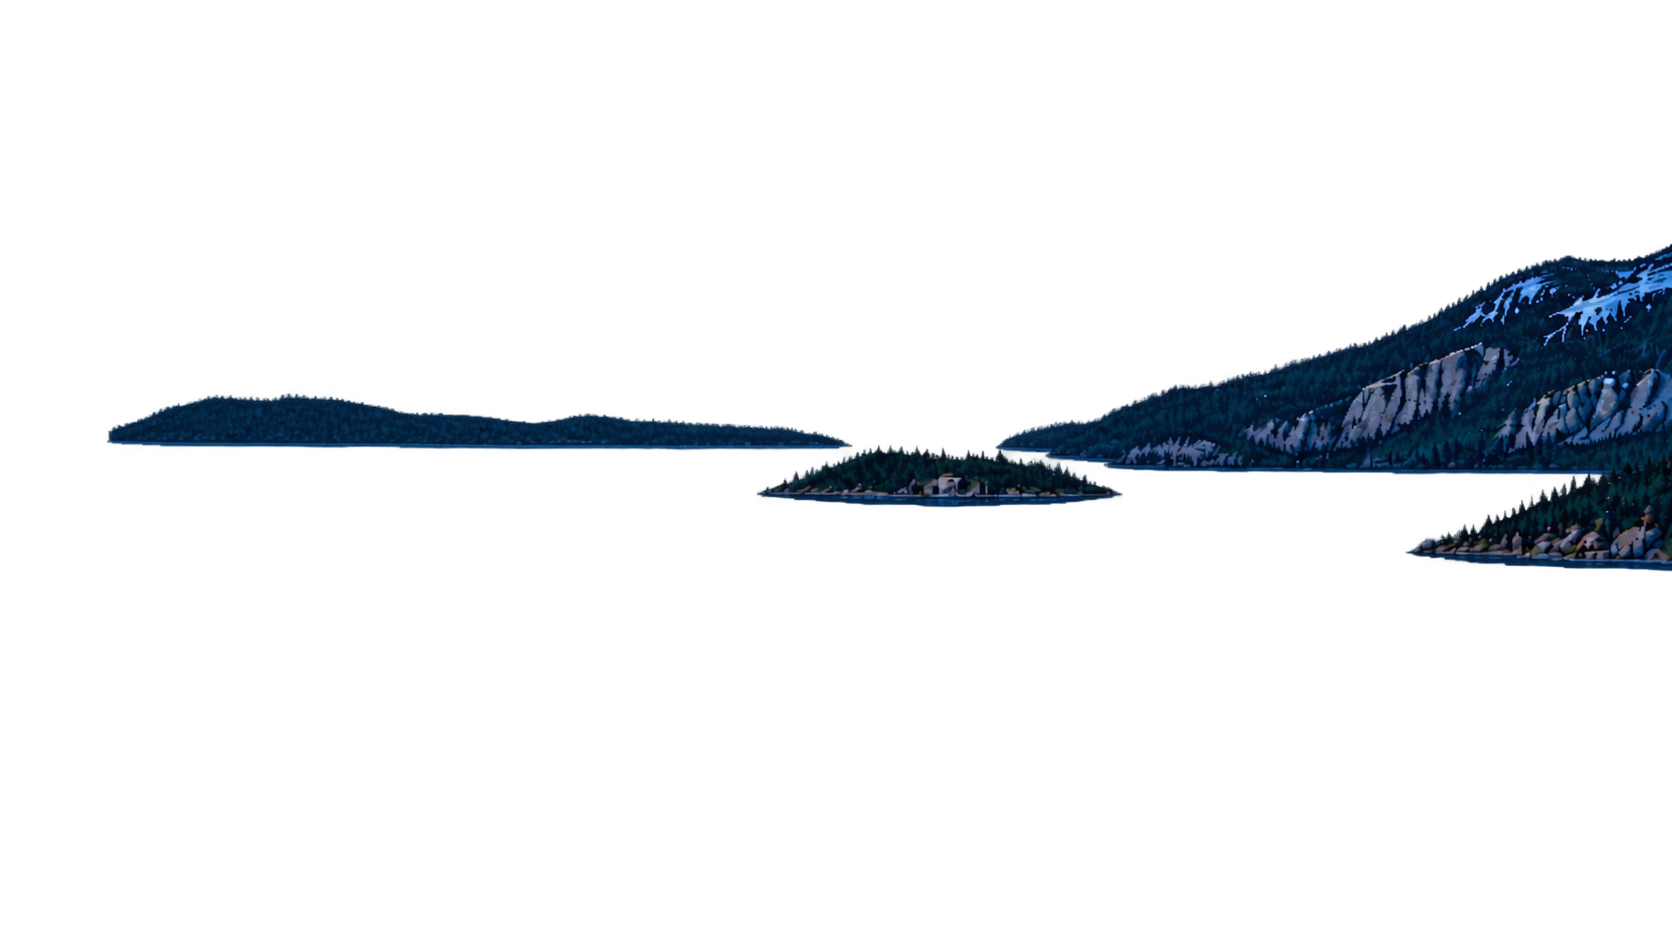
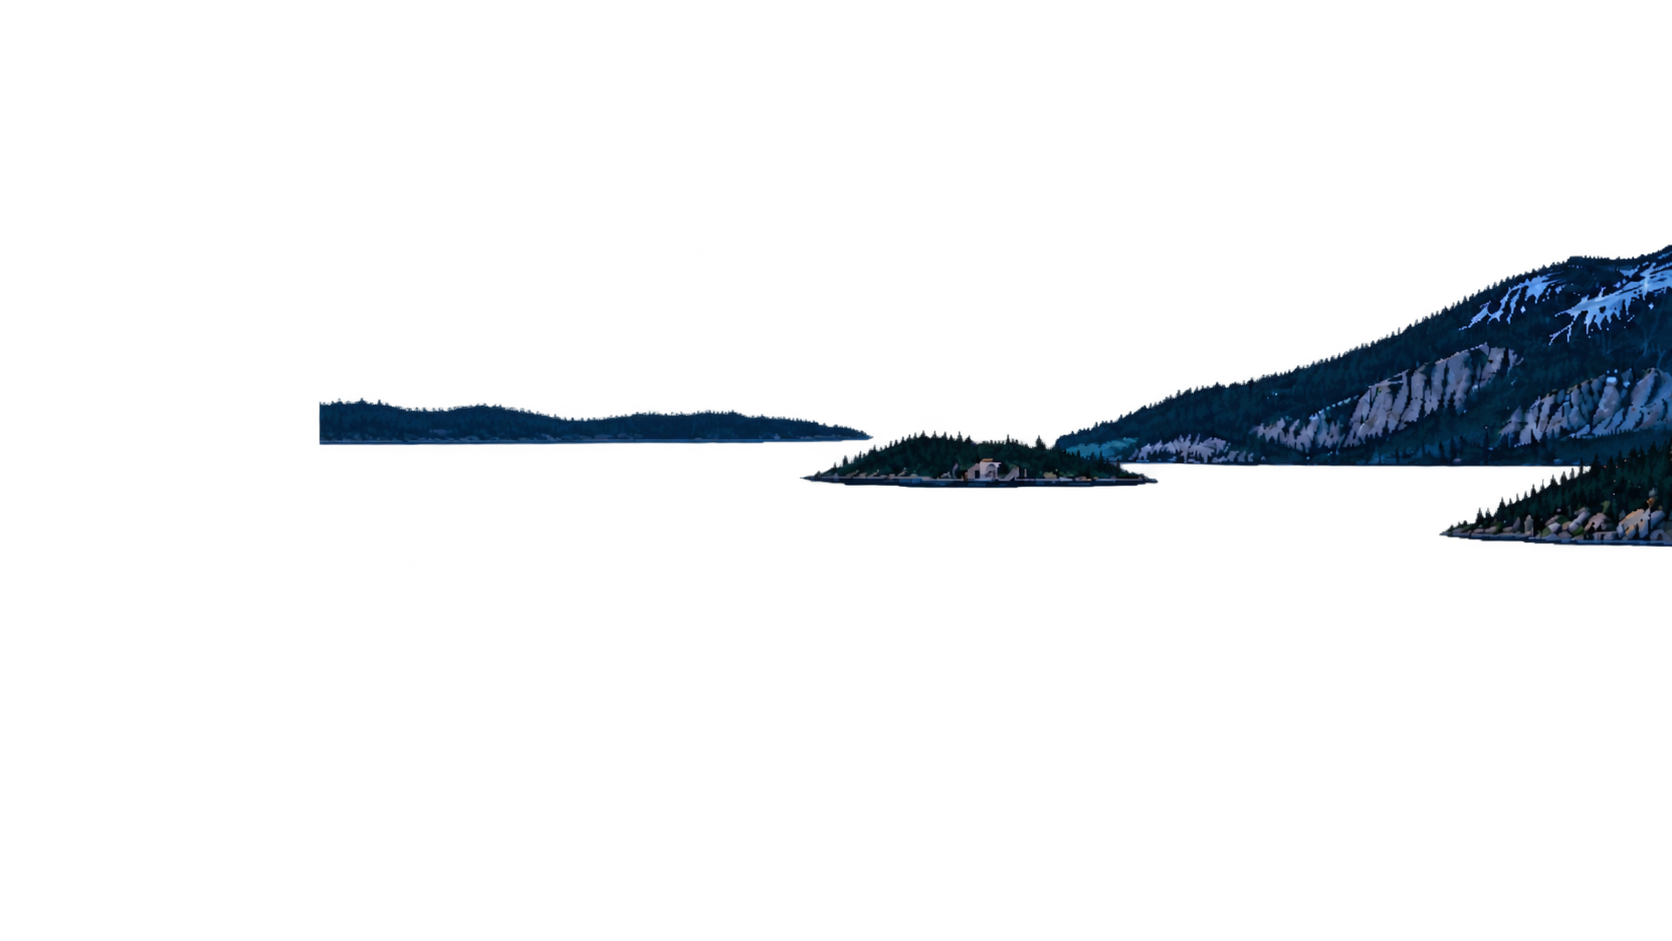
Новый слой 05_far_shore (v2), v1 сохранён как резерв

Changed region(s): [[0.0622, 0.2465, 1.0, 0.6164]]

diff --git a/tools/align.py b/tools/align.py
@@ -5,7 +5,7 @@ RAW='/workspace/campfire_layers/raw/layers_from_campfire/'
 OUT='/workspace/campfire/public/layers/'; AL='/workspace/campfire_layers/aligned/'
 MAP={'6E620ABD-852C-4D65-B277-D0716CABF299 2':'01_sky','9E270D44-9865-4EDC-80F0-3E846388AE5D':'02_moon',
 '613E568A-EB5F-4D57-95B0-6E1D1EB03DF1':'03_clouds','DA8F3FCF-AB52-46DF-8FC4-8F150509EA00':'04_mountains',
-'E236A01B-566F-4913-ABF4-55E12748EA68':'05_far_shore','C944D288-9832-456C-A0E0-45FA01B8E8DE':'06_lake',
+'../05_far_shore_v2':'05_far_shore','C944D288-9832-456C-A0E0-45FA01B8E8DE':'06_lake',
 'E0E53216-D01C-4B8E-8283-D50BBB242A2F':'07_forest_mid','3EF738D4-747F-4F6F-BFB3-9EA2DF0C8F04':'08_ground',
 'AAC54997-F4ED-4D59-AD8D-B8D4280DD7BF':'09_tree','6551349D-AE65-4148-A6FF-009C5455ACC2':'10_lantern',
 '554B83D3-5BEC-42E6-9EB3-8B0BE8F836F7':'11_firering','4FB2EB89-9DE1-46B3-B3AA-6E926BEE84D8':'12_fire_logs',
@@ -24,7 +24,7 @@ def feat(rgb):  # контуры устойчивее к тёплой подсв
 refs=cv2.resize(ref,(int(W*S),int(H*S)),interpolation=cv2.INTER_AREA); rf=feat(refs)
 report={}
 for uid,name in MAP.items():
-    src=RAW+uid+'.PNG'; shutil.copy(src,OUT+name+'.png')
+    src=RAW+uid+('.png' if uid.startswith('..') else '.PNG'); shutil.copy(src,OUT+name+'.png')
     im=np.array(Image.open(src).convert('RGBA').resize((W,H),Image.LANCZOS))
     if name=='01_sky':
         Image.fromarray(im).save(AL+name+'.png'); report[name]=dict(scale=1,dx=0,dy=0,score=None); continue
